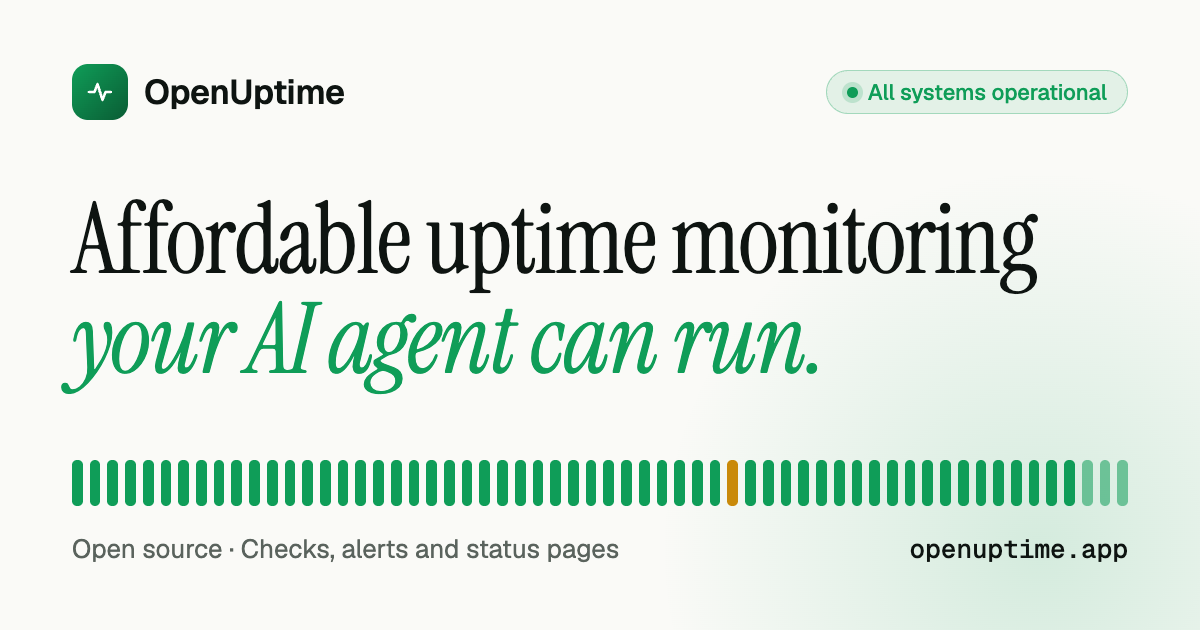
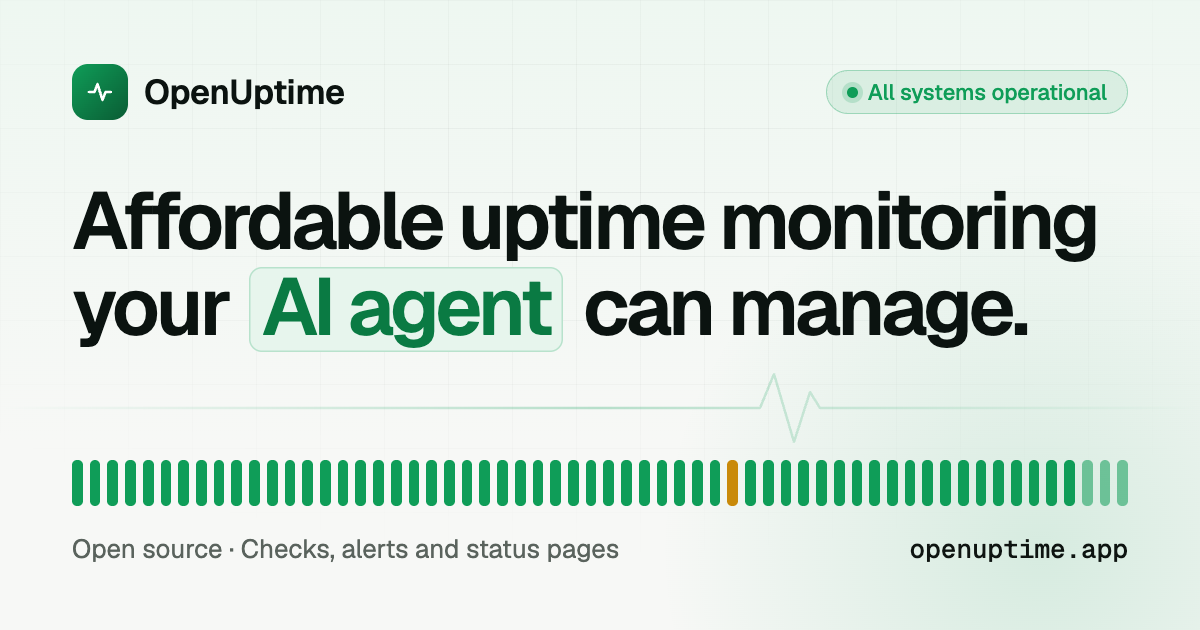
Redraw the share image in the new home page style
Drops the italic serif headline and uses the new tagline, so link previews match the home page.

Changed region(s): [[0.0308, 0.3016, 0.925, 0.6635], [0.6475, 0.6333, 0.7708, 0.6937]]

diff --git a/apps/web/design/og.html b/apps/web/design/og.html
@@ -7,13 +7,16 @@
 <meta charset="utf-8">
 <link rel="preconnect" href="https://fonts.googleapis.com">
 <link rel="preconnect" href="https://fonts.gstatic.com" crossorigin>
-<link href="https://fonts.googleapis.com/css2?family=Geist:wght@400;500;600&family=Geist+Mono:wght@500&family=Instrument+Serif:ital@0;1&display=block" rel="stylesheet">
+<link href="https://fonts.googleapis.com/css2?family=Geist:wght@400;500;600;700&family=Geist+Mono:wght@500&display=block" rel="stylesheet">
 <style>
   *{box-sizing:border-box;margin:0}
   html,body{width:1200px;height:630px;overflow:hidden}
-  body{background:#fafaf7;color:#0e1411;font-family:"Geist",system-ui,sans-serif;position:relative}
+  body{background:linear-gradient(180deg,#eef7f1 0%,#f7f8f6 70%);color:#0b1310;font-family:"Geist",system-ui,sans-serif;position:relative}
+  .grid{position:absolute;inset:0;background-image:linear-gradient(rgba(11,19,16,.05) 1px,transparent 1px),linear-gradient(90deg,rgba(11,19,16,.05) 1px,transparent 1px);
+    background-size:64px 64px;-webkit-mask-image:radial-gradient(ellipse 70% 60% at 50% 30%,#000 0%,transparent 100%)}
   .glow{position:absolute;right:-220px;bottom:-300px;width:760px;height:760px;border-radius:50%;
-    background:radial-gradient(closest-side,rgba(15,157,88,.16),rgba(15,157,88,0))}
+    background:radial-gradient(closest-side,rgba(15,157,88,.14),rgba(15,157,88,0))}
+  .beat{position:absolute;left:0;top:348px;width:1200px;height:120px;opacity:.5}
   .frame{position:absolute;inset:0;padding:64px 72px;display:flex;flex-direction:column}
   .top{display:flex;align-items:center;justify-content:space-between}
   .brand{display:flex;align-items:center;gap:16px;font-weight:600;font-size:34px;letter-spacing:-.01em}
@@ -22,8 +25,11 @@
   .pill{display:flex;align-items:center;gap:10px;height:44px;padding:0 20px;border-radius:99px;font-size:22px;font-weight:500;
     color:#0f9d58;background:rgba(15,157,88,.1);border:1px solid rgba(15,157,88,.3)}
   .pill i{width:11px;height:11px;border-radius:50%;background:#0f9d58;box-shadow:0 0 0 5px rgba(15,157,88,.18)}
-  h1{font-family:"Instrument Serif",Georgia,serif;font-weight:400;font-size:98px;line-height:1.02;letter-spacing:-.015em;margin-top:70px}
-  h1 em{color:#0f9d58;font-style:italic}
+  h1{position:relative;font-weight:600;font-size:80px;line-height:1.08;letter-spacing:-.045em;margin-top:58px}
+  h1 span{display:block}
+  h1 b{font-weight:inherit}
+  h1 .ai{display:inline-block;padding:0 .16em .04em;margin:0 .06em;border-radius:.16em;background:#e7f5ed;
+    box-shadow:inset 0 0 0 1.5px rgba(15,157,88,.22);color:#0a7a43;line-height:1.02}
   .bars{display:flex;gap:7px;height:46px;margin-top:auto;align-items:stretch}
   .bars b{flex:1;border-radius:5px;background:#0f9d58}
   .bars b.w{background:#c98a0a}
@@ -33,7 +39,10 @@
 </style>
 </head>
 <body>
+<div class="grid"></div>
 <div class="glow"></div>
+<svg class="beat" viewBox="0 0 1200 120" fill="none"><defs><linearGradient id="g" x1="0" x2="1"><stop offset="0" stop-color="#0f9d58" stop-opacity="0"/><stop offset=".5" stop-color="#0f9d58" stop-opacity=".55"/><stop offset="1" stop-color="#0f9d58" stop-opacity="0"/></linearGradient></defs>
+  <path d="M0 60H760l14-34 20 68 16-50 10 16H1200" stroke="url(#g)" stroke-width="2.5" stroke-linejoin="round"/></svg>
 <div class="frame">
   <div class="top">
     <div class="brand">
@@ -42,7 +51,7 @@
     </div>
     <div class="pill"><i></i>All systems operational</div>
   </div>
-  <h1>Affordable uptime monitoring <em>your AI agent can run.</em></h1>
+  <h1><span>Affordable uptime monitoring</span><span>your <b class="ai">AI agent</b> can manage.</span></h1>
   <div class="bars" id="bars"></div>
   <div class="foot"><span>Open source · Checks, alerts and status pages</span><span>openuptime.app</span></div>
 </div>

diff --git a/apps/web/src/lib/changelog.ts b/apps/web/src/lib/changelog.ts
@@ -34,6 +34,7 @@ export const COMMUNITY_ENTRIES: ChangelogEntry[] = [
       { en: "A sample conversation shows an AI agent creating and pausing a monitor over MCP.", zh: "新增一段示例对话，展示 AI Agent 通过 MCP 创建和暂停监控。" },
       { en: "The full feature list is grouped into tabs, and self-hosting with Docker is mentioned next to Cloudflare.", zh: "完整功能清单按分类放进标签页，自托管部分在 Cloudflare 之外也写明了 Docker。" },
       { en: "Every language and the dark theme carry the new design.", zh: "所有语言版本和深色主题都已使用新设计。" },
+      { en: "Links to OpenUptime shared in chats and social posts show a preview image in the new style.", zh: "在聊天和社交平台分享 OpenUptime 链接时，预览图也换成了新风格。" },
     ],
     cloud: { en: "The hosted home page also spells out the free plan at the top: 26,000 checks a month, 3 monitors and no credit card.", zh: "托管版首页顶部还直接写明免费套餐：每月 26,000 次检测、3 个监控，无需信用卡。" },
   },
